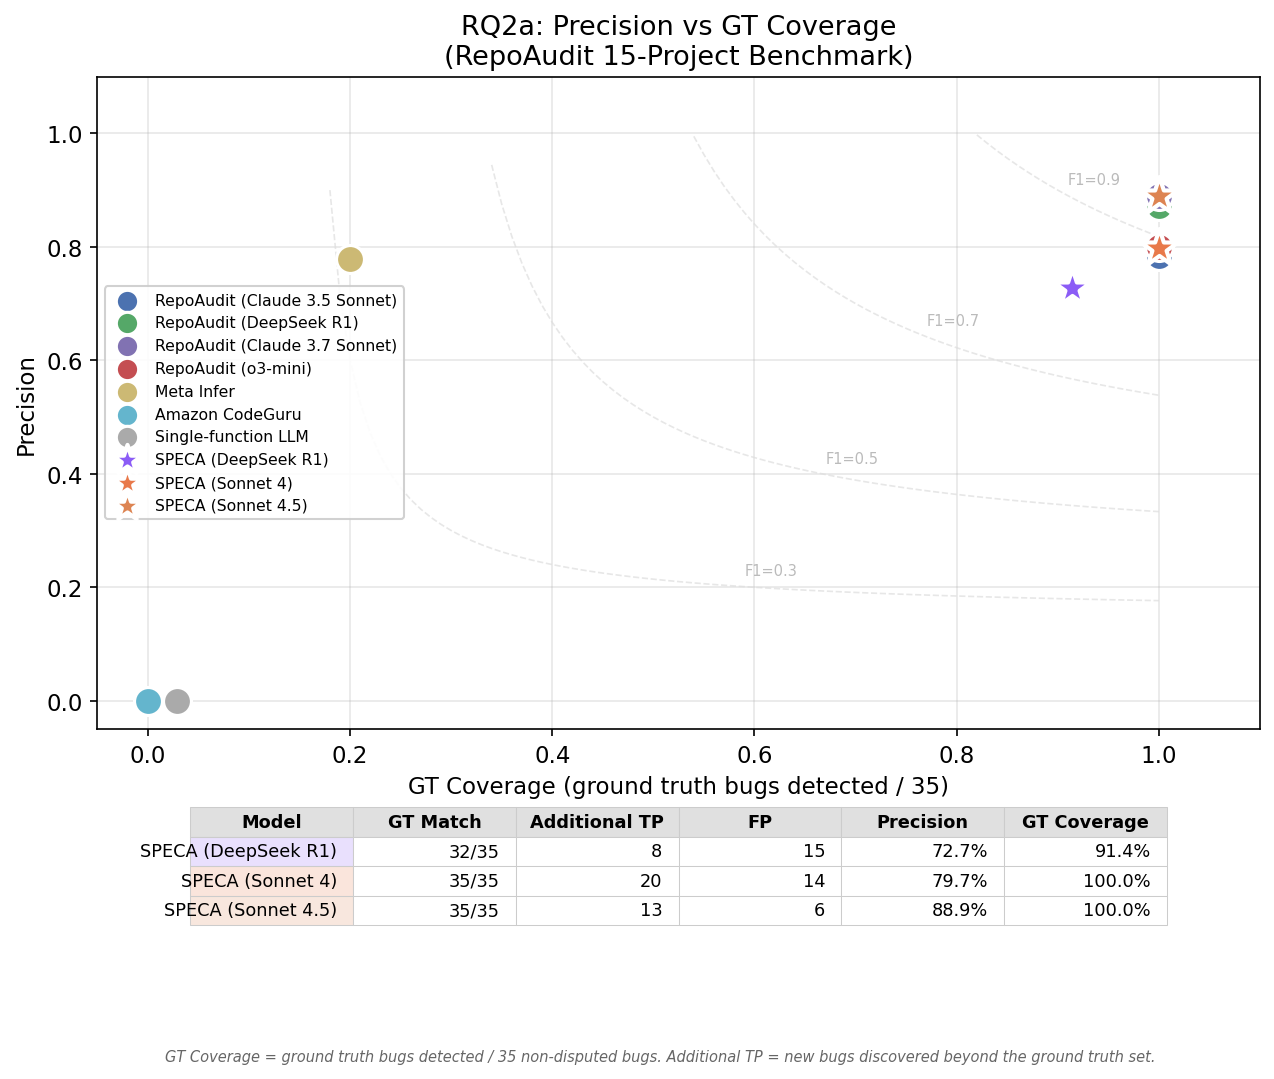
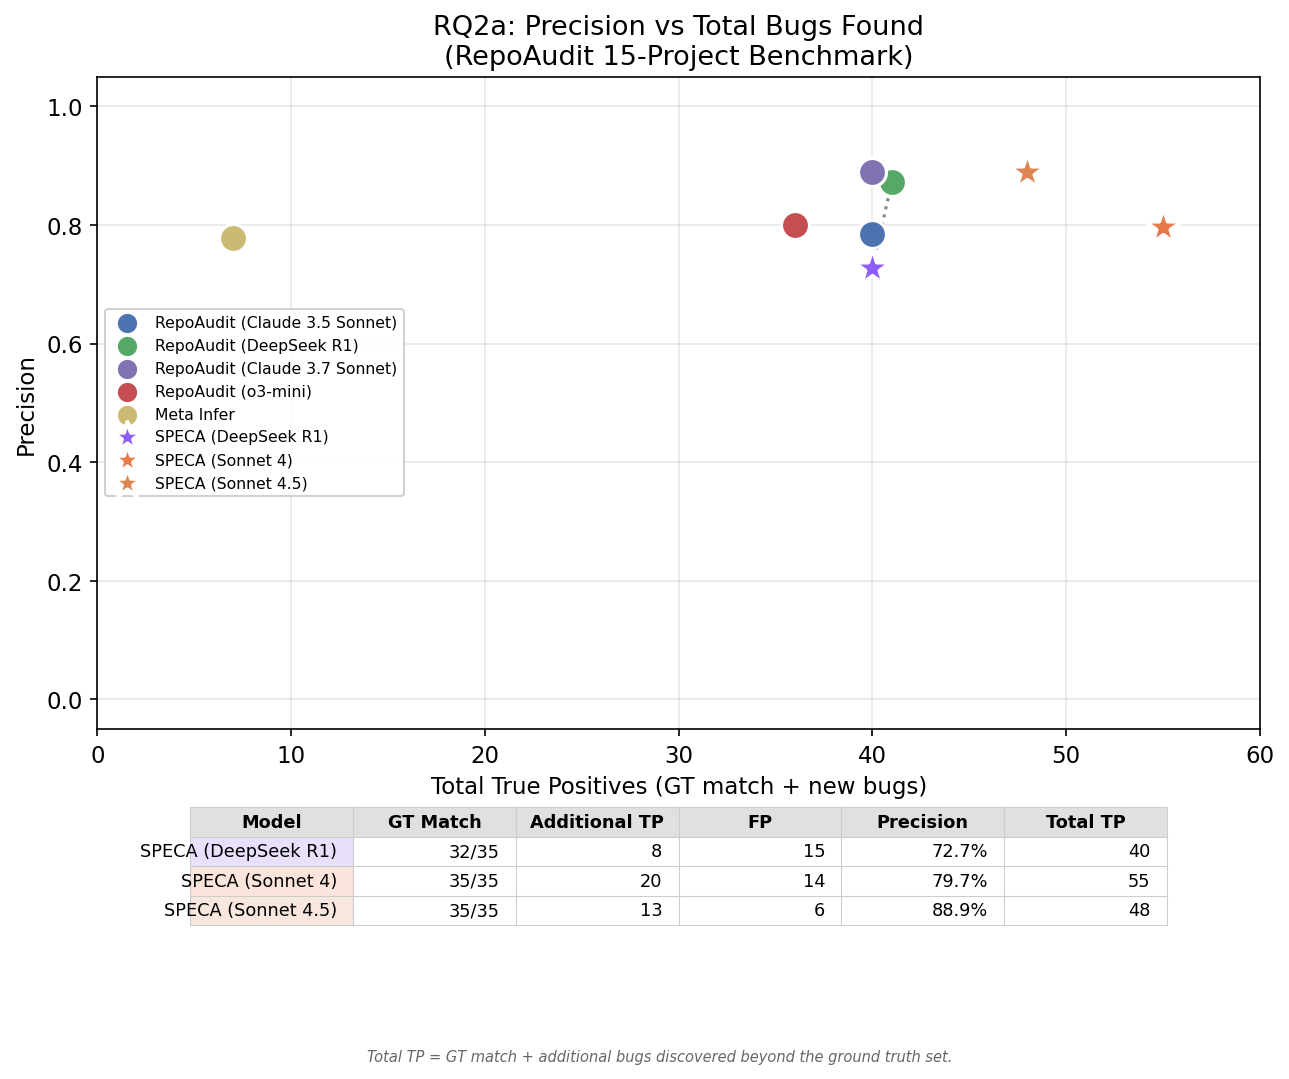
fix them

diff --git a/benchmarks/rq2a/analyze_deep.py b/benchmarks/rq2a/analyze_deep.py
@@ -290,11 +290,7 @@ def _load_speca_summaries() -> dict[str, dict]:
 
 
 def plot_precision_recall_scatter(baselines: dict, output_dir: Path) -> Path:
-    """Scatter plot: precision vs GT coverage for all tools.
-
-    Approach B: Replace raw recall with GT coverage (capped at 100%).
-    Table shows GT coverage + additional TP beyond GT set.
-    """
+    """Scatter plot: precision vs total true positives for all tools."""
     tools_data = baselines.get("tools", {})
     speca_models = _load_speca_summaries()
     gt_total = 35  # non-disputed ground truth bugs
@@ -307,8 +303,6 @@ def plot_precision_recall_scatter(baselines: dict, output_dir: Path) -> Path:
         "repoaudit_claude37_sonnet": "#8172B2",
         "repoaudit_o3_mini": "#C44E52",
         "meta_infer": "#CCB974",
-        "amazon_codeguru": "#64B5CD",
-        "single_function_llm": "#AAAAAA",
     }
     speca_colors = {
         "Sonnet 4.5": "#DD8452",
@@ -316,73 +310,74 @@ def plot_precision_recall_scatter(baselines: dict, output_dir: Path) -> Path:
         "DeepSeek R1": "#8B5CF6",
     }
 
+    # Exclude tools with no meaningful signal (0 TP or no precision data)
+    skip_tools = {"speca", "amazon_codeguru", "single_function_llm"}
+
+    # Track positions for symmetric pair connections
+    positions: dict[str, tuple[float, float]] = {}
+
     # Plot baseline tools
     for key, tool in tools_data.items():
-        if key == "speca":
+        if key in skip_tools:
             continue
         precision = tool.get("precision", 0)
         tp = tool.get("tp", 0)
         name = tool.get("display_name", key)
-
-        # GT coverage: min(tp, gt_total) / gt_total, capped at 1.0
-        gt_coverage = min(tp, gt_total) / gt_total if gt_total > 0 else 0
         prec_val = precision / 100 if precision > 1 else precision
 
         color = tool_colors.get(key, "#999")
-        ax.scatter(gt_coverage, prec_val, c=color, s=180, zorder=5,
+        ax.scatter(tp, prec_val, c=color, s=180, zorder=5,
                    edgecolors="white", linewidth=1.5, label=name)
+        positions[key] = (tp, prec_val)
 
     # Plot SPECA model variants as stars
     for label, sdata in speca_models.items():
         prec = sdata.get("precision", 0)
         gt_tp = sdata.get("gt_tp", 0)
+        new_tp = sdata.get("new_tp", 0)
+        total_tp = gt_tp + new_tp
         prec_val = prec / 100 if prec > 1 else prec
-        gt_coverage = min(gt_tp / gt_total, 1.0) if gt_total > 0 else 0
 
         color = speca_colors.get(label, "#DD8452")
-        ax.scatter(gt_coverage, prec_val, c=color, s=350, zorder=6,
+        ax.scatter(total_tp, prec_val, c=color, s=350, zorder=6,
                    edgecolors="white", linewidth=2, marker="*",
                    label=f"SPECA ({label})")
+        positions[f"speca_{label}"] = (total_tp, prec_val)
 
-    # F1 contour lines (using GT coverage as recall proxy)
-    for f1 in [0.3, 0.5, 0.7, 0.9]:
-        r_vals = np.linspace(0.01, 1.0, 100)
-        with np.errstate(divide="ignore", invalid="ignore"):
-            p_vals = (f1 * r_vals) / (2 * r_vals - f1)
-        valid = (p_vals > 0) & (p_vals <= 1) & np.isfinite(p_vals)
-        ax.plot(r_vals[valid], p_vals[valid], '--', color='#ddd', linewidth=0.8, alpha=0.7)
-        mid_idx = len(r_vals[valid]) // 2
-        if mid_idx > 0:
-            ax.text(r_vals[valid][mid_idx], p_vals[valid][mid_idx] + 0.02,
-                    f"F1={f1}", fontsize=7, color="#bbb")
+    # Dotted line connecting symmetric pair: RepoAudit (DeepSeek R1) ↔ SPECA (DeepSeek R1)
+    ra_dr1 = positions.get("repoaudit_deepseek_r1")
+    sp_dr1 = positions.get("speca_DeepSeek R1")
+    if ra_dr1 and sp_dr1:
+        ax.plot([ra_dr1[0], sp_dr1[0]], [ra_dr1[1], sp_dr1[1]],
+                ':', color='#888888', linewidth=1.5, zorder=3)
 
-    ax.set_xlabel("GT Coverage (ground truth bugs detected / 35)")
+    ax.set_xlabel("Total True Positives (GT match + new bugs)")
     ax.set_ylabel("Precision")
-    ax.set_title("RQ2a: Precision vs GT Coverage\n(RepoAudit 15-Project Benchmark)")
-    ax.set_xlim(-0.05, 1.1)
-    ax.set_ylim(-0.05, 1.1)
+    ax.set_title("RQ2a: Precision vs Total Bugs Found\n(RepoAudit 15-Project Benchmark)")
+    ax.set_xlim(0, 60)
+    ax.set_ylim(-0.05, 1.05)
     ax.grid(alpha=0.3)
 
     ax.legend(loc="center left", fontsize=7.5, framealpha=0.9,
               edgecolor="#CCCCCC", markerscale=0.8,
               bbox_to_anchor=(0.0, 0.5))
 
-    # SPECA metrics table with GT coverage + additional TP
+    # SPECA metrics table
     if speca_models:
-        col_labels = ["Model", "GT Match", "Additional TP", "FP", "Precision", "GT Coverage"]
+        col_labels = ["Model", "GT Match", "Additional TP", "FP", "Precision", "Total TP"]
         table_data = []
         cell_colors = []
         for label, sdata in speca_models.items():
             gt_tp = sdata.get("gt_tp", 0)
             new_tp = sdata.get("new_tp", 0)
-            gt_cov = gt_tp / gt_total * 100 if gt_total > 0 else 0
+            total_tp = gt_tp + new_tp
             table_data.append([
                 f"SPECA ({label})",
                 f"{gt_tp}/{gt_total}",
                 str(new_tp),
                 str(sdata.get("fp", "—")),
                 f"{sdata.get('precision', 0):.1f}%",
-                f"{gt_cov:.1f}%",
+                str(total_tp),
             ])
             c = speca_colors.get(label, "#DD8452")
             cell_colors.append([c + "30"] + ["#FFFFFF"] * 5)
@@ -404,8 +399,7 @@ def plot_precision_recall_scatter(baselines: dict, output_dir: Path) -> Path:
                 cell.set_text_props(fontweight="bold")
 
         fig.text(0.5, 0.005,
-                 "GT Coverage = ground truth bugs detected / 35 non-disputed bugs. "
-                 "Additional TP = new bugs discovered beyond the ground truth set.",
+                 "Total TP = GT match + additional bugs discovered beyond the ground truth set.",
                  ha="center", fontsize=7, style="italic", color="#666666")
 
     fig.subplots_adjust(bottom=0.30)